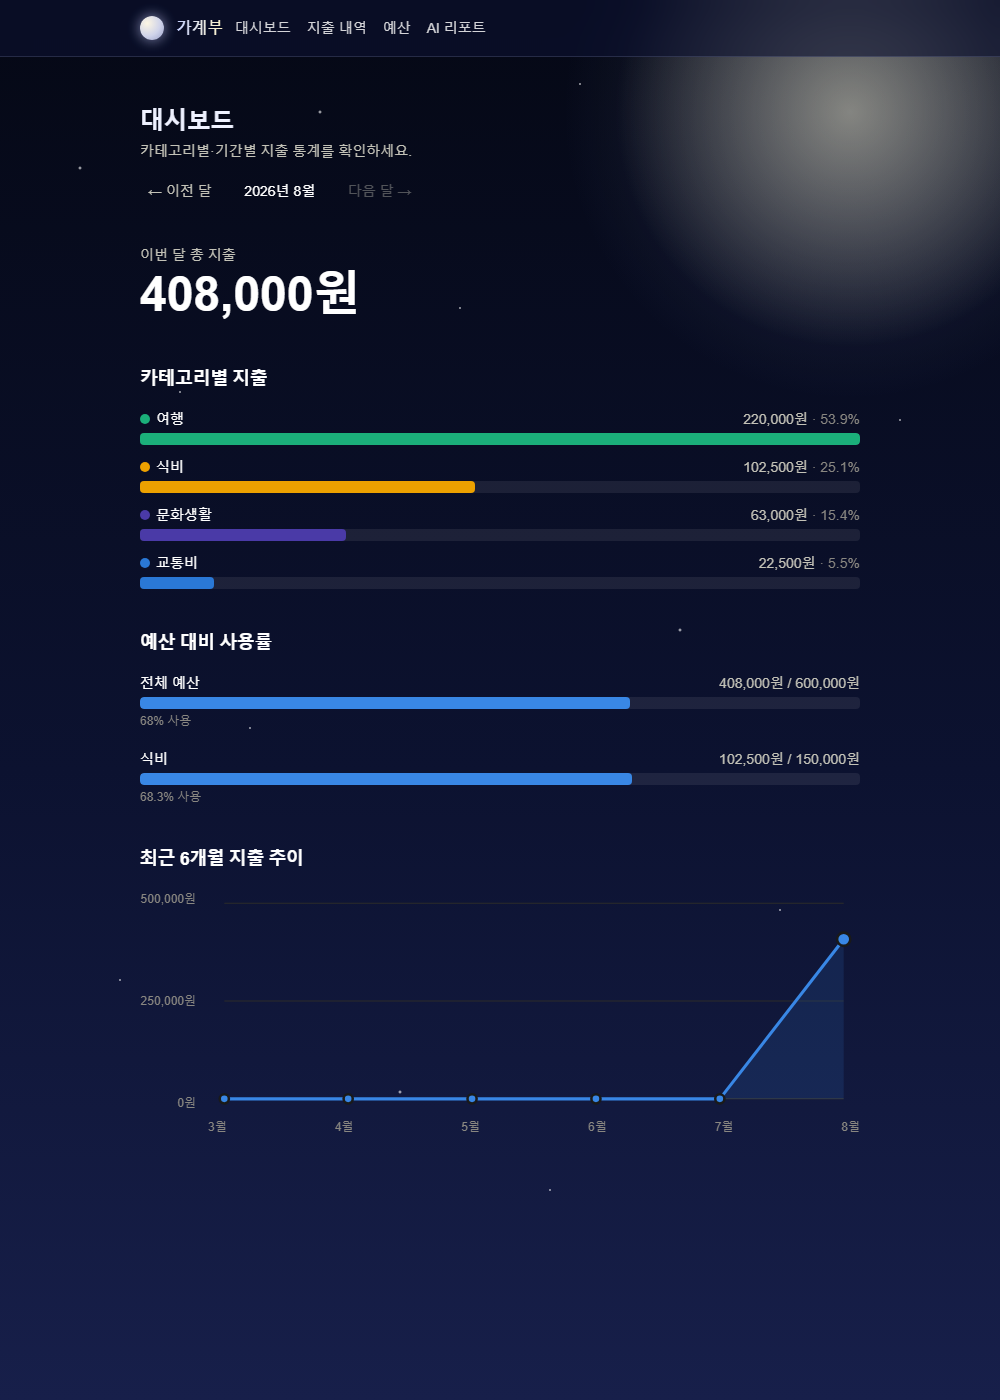
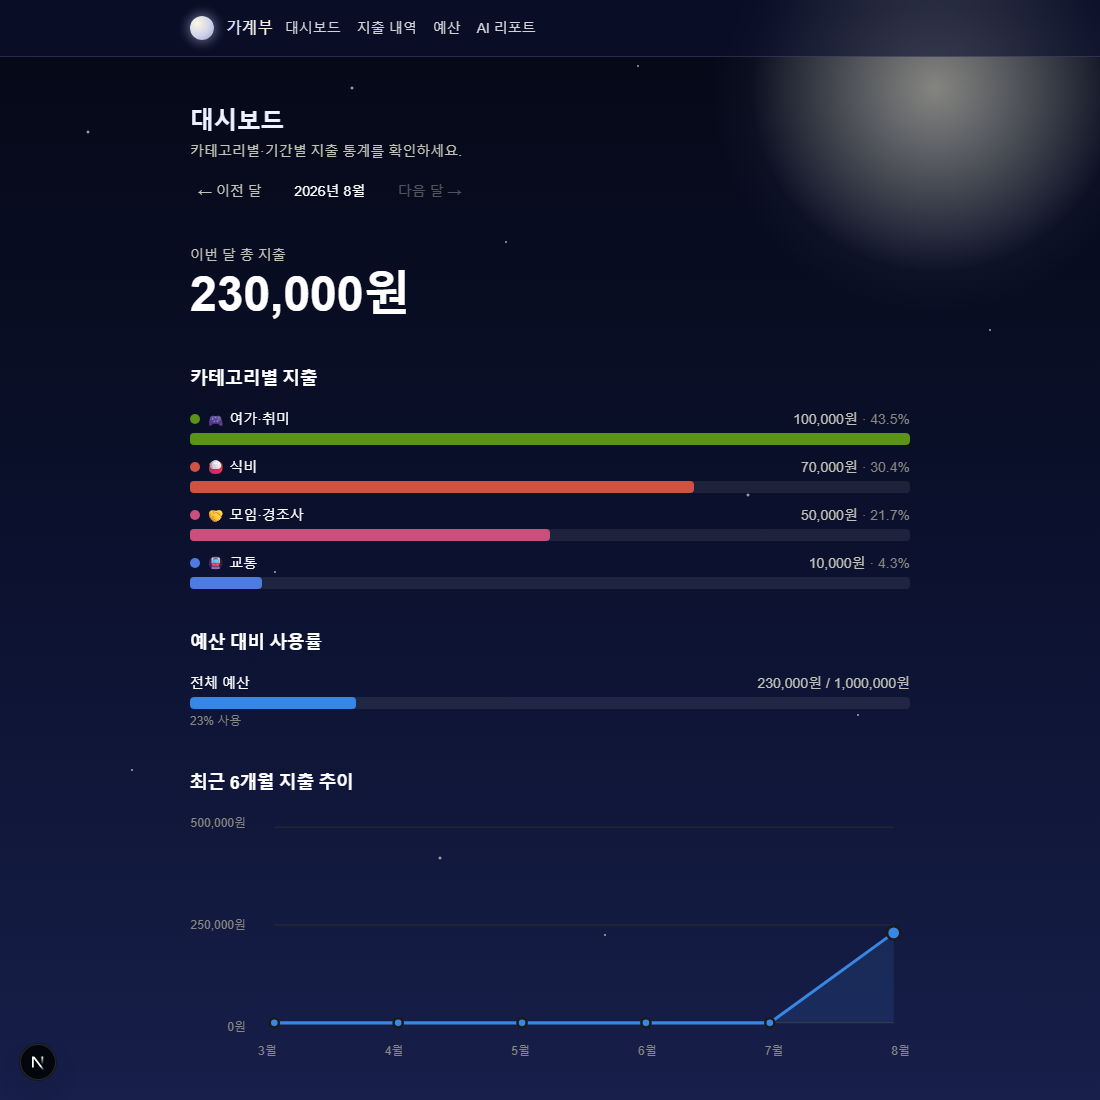
Update README: fixed category palette note + refreshed screenshots
Screenshots were from before the calendar card redesign and the new
validated color palette, so they no longer matched the app.

diff --git a/README.md b/README.md
@@ -19,10 +19,11 @@
 
 - 💸 **지출 기록** — 금액·날짜·카테고리·메모로 지출을 추가/수정/삭제
 - 🍩 **홈 대시보드** — 이번 달 총 지출을 도넛 차트로, 카테고리별 비중을 한눈에 확인
-- 📅 **달력 보기** — 월별 달력에서 지출이 있는 날짜를 표시하고, 날짜를 클릭하면 그날의 지출 내역과 합계를 확인
+- 📅 **달력 보기** — 월별 달력에서 지출이 있는 날짜를 표시하고, 날짜를 클릭하면 그날의 지출 내역을 카테고리 색으로 틴트된 카드로 확인
 - ➕ **지출 추가 모달** — 홈 화면에서 바로 달력으로 날짜를 고르고 지출/카테고리를 추가
 - 📊 **대시보드 통계** — 카테고리별 지출 막대 차트, 예산 대비 사용률, 최근 6개월 지출 추이
 - 🎯 **예산 관리** — 월별 전체 예산과 카테고리별 예산을 설정하고 사용률 확인
+- 🏷 **고정 카테고리 12종** — 식비·주거·교통 등 아이콘+색이 정해진 프리셋 카테고리(앱 안에서 추가 불가). 색상은 색맹 시뮬레이션까지 검증해 서로 헷갈리지 않도록 고른 팔레트
 - 🤖 **AI 월간 리포트** — OpenRouter를 통해 무료 LLM 모델을 호출해 이번 달 소비 인사이트를 한국어 마크다운으로 생성
 - 🌤 하늘·구름·해·달을 모티프로 한 라이트/다크 테마
 
